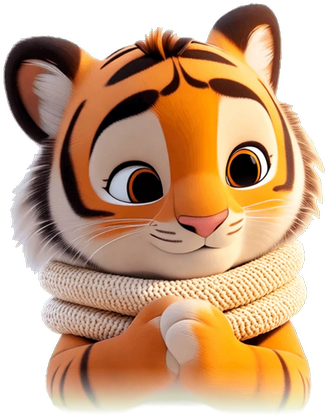
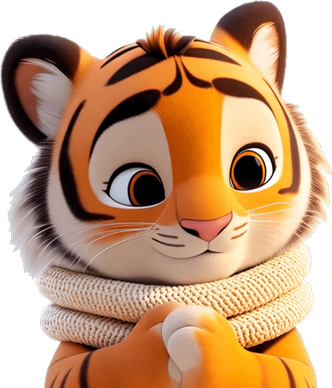
老虎坐在屏幕底边上：半身的切齐底边，身子顺着画框出去
原来那只的原图底下是渐隐的，几个新姿势照着它也带了一截淡出去的身子，
放大之后就浮在半空，下半截是透明的。

现在把淡掉的那截切掉，切出一条齐边，贴着屏幕底摆——身子像是顺着画框出去了。
打盹那只本来就是全身（裹着毯子坐着），离底边留一点，像坐在窗台上。

切在哪儿：看一行里「完全不透明」的像素占可见像素的比例，从下往上找第一行过八成的。
第一版按宽度找，撑伞那只上面是一把大伞，最宽的那行是脸，切到了下巴。
围巾那只的渐隐垫在绿底上变成了不透明的黄绿色，比例认不出来，按眼睛量的多切 7%。

原来那只也切了一份齐边的（tiger-default.png）给首页窗里用；
APK 里自带的那只底下还是渐隐的，只作取不到图时的兜底，详情页也还用它——
那里它不贴着底，齐边浮在半空反而怪。

撑伞那张大半是伞，老虎本身小一圈，单独放大到 226，几只看着一样大。

diff --git a/Today/App.tsx b/Today/App.tsx
@@ -8,7 +8,7 @@ import {useKeepAwake} from 'expo-keep-awake';
 import QRCode from 'react-native-qrcode-svg';
 import {TaskRow} from './src/TaskRow';
 import {Detail, type DetailPayload} from './src/Detail';
-import {daypartOf, palettes, POSE_ASPECT, poseOf, safe, sceneOf, space, type} from './src/theme';
+import {daypartOf, palettes, POSE_ASPECT, POSE_FULL_BODY, POSE_HEIGHT, poseOf, safe, sceneOf, space, type} from './src/theme';
 import {clockOf, dateLineOf, detectLang, t} from './src/i18n';
 import {hint as wxHint, line as wxLine} from './src/agent/weather';
 import type {Card, Turn} from './src/agent/types';
@@ -218,10 +218,11 @@ export default function App() {
   const showArt = artBad !== artUrl;
 
   // 老虎跟着窗外换姿势。取不到就是原来那只——它本来就在包里。
-  const pose = poseOf(daypart, turn.weather?.kind);
-  const poseUrl = pose ? `${api}/art/tiger-${pose}.png` : null;
+  // 没有特别天气时也取服务端那只「切齐了底边」的；APK 里自带的那只底下是渐隐的，只作兜底
+  const pose = poseOf(daypart, turn.weather?.kind) ?? 'default';
+  const poseUrl = `${api}/art/tiger-${pose}.png`;
   const [poseBad, setPoseBad] = useState<string | null>(null);
-  const usePose = pose && poseUrl && poseBad !== poseUrl ? pose : null;
+  const usePose = poseBad !== poseUrl ? pose : null;
 
   const tasks = turn.cards.find(c => c.type === 'tasks');
   const later = turn.cards.find(c => c.type === 'later');
@@ -328,7 +329,8 @@ export default function App() {
   // 窗在画的右半边。往右对齐，窄条里露出来的就是窗和窗台（和网页版 background-position 一样）。
   // 不对齐到最右：画里雨天那把伞靠在窗框右边，露出来会和老虎手里那把撞在一起。
   const artLeft = -Math.round((artW - SCENE_W) * 0.62);
-  const bigH = 178;
+  const full = usePose ? POSE_FULL_BODY[usePose] : true;
+  const bigH = usePose ? POSE_HEIGHT[usePose] : 178;
   const bigW = Math.round(bigH * (usePose ? POSE_ASPECT[usePose] : 413 / 572));
 
   return (
@@ -378,8 +380,8 @@ export default function App() {
           </View>
           <View style={s.sceneBottom}>
             <Image
-              source={usePose ? {uri: poseUrl!} : TIGER}
-              style={{width: bigW, height: bigH}}
+              source={usePose ? {uri: poseUrl} : TIGER}
+              style={{width: bigW, height: bigH, marginBottom: full ? 14 : 0}}
               resizeMode="contain"
               onError={() => poseUrl && setPoseBad(poseUrl)}
             />
@@ -564,10 +566,10 @@ const s = StyleSheet.create({
   zones: {flex: 1, flexDirection: 'row'},
   scene: {overflow: 'hidden'},
   sceneTop: {position: 'absolute', left: safe.h, top: safe.v, right: 24},
-  sceneBottom: {position: 'absolute', left: 28, right: 22, bottom: 14,
+  sceneBottom: {position: 'absolute', left: 28, right: 22, bottom: 0,
     flexDirection: 'row', alignItems: 'flex-end'},
   // 气泡：它说的话。尾巴朝左下，指着老虎
-  bubble: {flex: 1, marginLeft: space.sm, marginBottom: 96, paddingVertical: 9, paddingHorizontal: 13,
+  bubble: {flex: 1, marginLeft: space.sm, marginBottom: 110, paddingVertical: 9, paddingHorizontal: 13,
     borderRadius: 16, borderBottomLeftRadius: 4, borderWidth: 1,
     shadowOpacity: 1, shadowRadius: 18, shadowOffset: {width: 0, height: 6}, elevation: 4},
   family: {flex: 1, paddingTop: 20, paddingBottom: 24, paddingLeft: 34, paddingRight: safe.h},

diff --git a/Today/server/tv.html b/Today/server/tv.html
@@ -169,9 +169,11 @@
   #scrim{position:absolute;inset:0;pointer-events:none;
     background:linear-gradient(180deg,var(--v0) 0%,var(--v1) 33%,var(--v2) 42%,rgba(0,0,0,0) 52%,rgba(0,0,0,0) 64%,var(--v2) 100%)}
   .sceneTop{position:absolute;left:44px;top:30px;right:24px}
-  .sceneBottom{position:absolute;left:28px;right:22px;bottom:14px;display:flex;align-items:flex-end;gap:8px}
-  #big{height:178px;flex:none;filter:drop-shadow(0 6px 10px rgba(40,30,60,.22))}
-  .bubble{position:relative;flex:1;margin-bottom:96px;padding:9px 13px;border-radius:16px 16px 16px 4px;
+  .sceneBottom{position:absolute;left:28px;right:22px;bottom:0;display:flex;align-items:flex-end;gap:8px}
+  #big{height:196px;flex:none;filter:drop-shadow(0 6px 10px rgba(40,30,60,.22))}
+  #big.full{height:178px;margin-bottom:14px}
+  #big.umbrella{height:226px}
+  .bubble{position:relative;flex:1;margin-bottom:110px;padding:9px 13px;border-radius:16px 16px 16px 4px;
     background:var(--surface);border:1px solid var(--border);
     backdrop-filter:blur(8px);-webkit-backdrop-filter:blur(8px);box-shadow:0 6px 18px var(--shadow)}
   .bubble .say{font-size:16px;line-height:22px;font-weight:400;margin:0}
@@ -331,16 +333,21 @@ function art(){
 }
 
 /* 老虎跟着窗外换姿势：入夜打盹、下雨撑伞、下雪围围巾。和 src/theme.ts 的 poseOf 一样。 */
-const ASPECT = {umbrella:.88, scarf:.78, sleep:.8};
+const ASPECT = {default:.833, umbrella:1, scarf:.856, sleep:.8};
+const FULL = {sleep:true};
 function tiger(){
   const p = part(new Date().getHours());
   const sky = forceSky || skyOf(turn && turn.weather && turn.weather.kind);
   const pose = p==='night' ? 'sleep' : sky==='rain' ? 'umbrella' : sky==='snow' ? 'scarf' : null;
   const t = $('tiger');
   const want = pose ? `/art/tiger-${pose}.png` : '/today-tiger.png';
-  if ($('big').getAttribute('src') !== want) {
+  // 窗里那只：半身的贴着底边（底下切齐了），打盹那只是全身、离底边留一点
+  const bigWant = `/art/tiger-${pose || 'default'}.png`;
+  if ($('big').getAttribute('src') !== bigWant) {
     $('big').onerror = () => { $('big').onerror = null; $('big').src = '/today-tiger.png'; };
-    $('big').src = want;
+    $('big').src = bigWant;
+    $('big').classList.toggle('full', !!FULL[pose]);
+    $('big').classList.toggle('umbrella', pose === 'umbrella');
   }
   if (t.getAttribute('src') === want) return;
   t.onerror = () => { t.onerror = null; t.src = '/today-tiger.png'; t.style.width = ''; };

diff --git a/Today/src/theme.ts b/Today/src/theme.ts
@@ -46,7 +46,20 @@ export const sceneOf = (d: Daypart, kind?: string) => `${d}-${skyOf(kind)}`;
  * 宽高比跟着走，好让每个姿势都靠左站，不在框里飘。
  */
 export type Pose = 'sleep' | 'umbrella' | 'scarf';
-export const POSE_ASPECT: Record<Pose, number> = {umbrella: 0.88, scarf: 0.78, sleep: 0.8};
+export const POSE_ASPECT: Record<Pose | 'default', number> = {
+  default: 0.833, umbrella: 1.0, scarf: 0.856, sleep: 0.8,
+};
+/**
+ * 半身的几只底下是一条切齐的边，贴着屏幕底摆，身子就像顺着画框出去了。
+ * 打盹那只是全身（裹着毯子坐着），离底边留一点，像坐在窗台上。
+ */
+export const POSE_FULL_BODY: Record<Pose | 'default', boolean> = {
+  default: false, umbrella: false, scarf: false, sleep: true,
+};
+/** 窗里那只多高。撑伞那张大半是伞，老虎本身小一圈，所以整张放大一点，让几只看着一样大。 */
+export const POSE_HEIGHT: Record<Pose | 'default', number> = {
+  default: 196, umbrella: 226, scarf: 196, sleep: 178,
+};
 
 export function poseOf(d: Daypart, kind?: string): Pose | null {
   if (d === 'night') return 'sleep';
